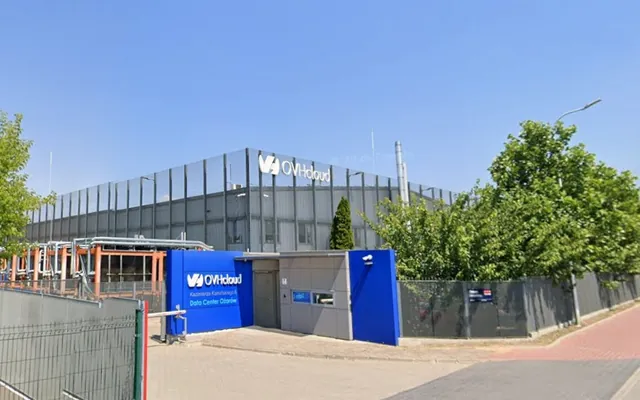
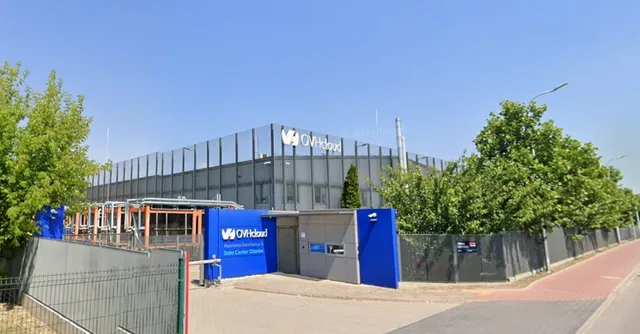
Ozarow w natywnej rozdzielczosci, na telefonie w ramce

diff --git a/realizacje.html b/realizacje.html
@@ -46,7 +46,7 @@
 <h1>Wybrane projekty</h1><p>Pełna lista realizacji do wglądu na życzenie wraz z listami referencyjnymi.</p>
 </div><div class="ph-ch" aria-hidden="true"></div></section>
 <section class="sek"><div class="wrap">
-<div class="kafle"><article class="kafel"><div class="k-foto"><img src="img/hybryda-960.webp" srcset="img/hybryda-640.webp 640w, img/hybryda-960.webp 960w, img/hybryda-1280.webp 1280w" sizes="(min-width:1100px) 580px, (min-width:760px) 46vw, 100vw" width="1280" height="800" alt="Turbina wiatrowa i farma fotowoltaiczna projektu hybrydowego OZE" loading="lazy" decoding="async"></div><div class="k-tekst"><p class="rola">PMaaS</p><h3>Projekt hybrydowy OZE</h3><p class="miejsce">Polska centralna</p><p>Farma wiatrowa 2 MW, instalacja PV 1 MW, magazyn energii 2 MW.</p></div></article><article class="kafel"><div class="k-foto"><img src="img/pv-960.webp" srcset="img/pv-640.webp 640w, img/pv-960.webp 960w, img/pv-1120.webp 1120w" sizes="(min-width:1100px) 580px, (min-width:760px) 46vw, 100vw" width="1120" height="700" alt="Sklep sieci handlowej z instalacją fotowoltaiczną na dachu" loading="lazy" decoding="async"></div><div class="k-tekst"><p class="rola">Zarządzanie projektem</p><h3>Ponad 2400 instalacji PV dla największej sieci sklepów w Polsce</h3><p class="miejsce">Lokalizacje w całej Polsce</p><p>Prawie 120 MW. Jeden z największych projektów w Europie.</p></div></article><article class="kafel"><div class="k-foto gal"><div class="slajdy"><img src="img/obudowa-960.webp" srcset="img/obudowa-640.webp 640w, img/obudowa-960.webp 960w, img/obudowa-1200.webp 1200w" sizes="(min-width:1100px) 580px, (min-width:760px) 46vw, 100vw" width="1200" height="750" alt="Obudowa układu kogeneracyjnego z kominem i podestami" loading="lazy" decoding="async"><img src="img/agregat-910.webp" srcset="img/agregat-640.webp 640w, img/agregat-910.webp 910w" sizes="(min-width:1100px) 580px, (min-width:760px) 46vw, 100vw" width="910" height="569" alt="Agregat układu kogeneracyjnego wewnątrz obudowy" loading="lazy" decoding="async"></div><button class="p" type="button" aria-label="Poprzednie zdjęcie"><svg viewBox="0 0 24 24" aria-hidden="true"><path d="M15 5l-7 7 7 7"/></svg></button><button class="n" type="button" aria-label="Następne zdjęcie"><svg viewBox="0 0 24 24" aria-hidden="true"><path d="M9 5l7 7-7 7"/></svg></button><span class="licz"></span></div><div class="k-tekst"><p class="rola">Projekt, prefabrykacja, dostawa i montaż</p><h3>Projekt kogeneracyjny</h3><p class="miejsce">Rybnik</p><p>Projektowanie, prefabrykacja, dostawa i montaż konstrukcji stalowych oraz obudów układów kogeneracyjnych o łącznej mocy ponad 5 MW.</p></div></article><article class="kafel"><div class="k-foto"><img src="img/tuna-960.webp" srcset="img/tuna-640.webp 640w, img/tuna-960.webp 960w, img/tuna-1280.webp 1280w" sizes="(min-width:1100px) 580px, (min-width:760px) 46vw, 100vw" width="1280" height="800" alt="Konstrukcja stalowa centrum danych w Sandviken w trakcie budowy" loading="lazy" decoding="async"></div><div class="k-tekst"><p class="rola">PMaaS</p><h3>TUNA Project: Data Center dla Microsoft</h3><p class="miejsce">Sandviken, Szwecja</p><p>Wsparcie w modelu Project Management as a Service.</p></div></article><article class="kafel"><div class="k-foto"><img src="img/terminal-960.webp" srcset="img/terminal-640.webp 640w, img/terminal-960.webp 960w, img/terminal-1248.webp 1248w" sizes="(min-width:1100px) 580px, (min-width:760px) 46vw, 100vw" width="1248" height="780" alt="Budynek Cargo Terminal na Lotnisku Chopina z parkingiem" loading="lazy" decoding="async"></div><div class="k-tekst"><p class="rola">Generalne wykonawstwo (konsorcjum)</p><h3>Modernizacja dachu Cargo Terminal</h3><p class="miejsce">Lotnisko Chopina, Warszawa</p><p>Realizacja w konsorcjum, generalne wykonawstwo.</p></div></article><article class="kafel"><div class="k-foto"><img src="img/ozarow-858.webp" srcset="img/ozarow-640.webp 640w, img/ozarow-858.webp 858w" sizes="(min-width:1100px) 580px, (min-width:760px) 46vw, 100vw" width="858" height="536" alt="Budynek centrum danych OVHcloud w Ożarowie Mazowieckim od strony ulicy" loading="lazy" decoding="async"></div><div class="k-tekst"><p class="rola">Generalny wykonawca</p><h3>OVHcloud: Data Center Ożarów</h3><p class="miejsce">Ożarów Mazowiecki</p><p>Prace budowlane i elektryczne, BEST PM jako generalny wykonawca.</p></div></article><article class="kafel bez-foto"><div class="k-bez" aria-hidden="true"><span>07</span><svg class="ch" viewBox="0 0 44 32" aria-hidden="true"><path d="M5 3l13 13L5 29" stroke="#fff"/><path d="M21 3l13 13-13 13" stroke="#188BE8"/></svg></div><div class="k-tekst"><p class="rola">Generalne wykonawstwo (konsorcjum)</p><h3>Przebudowa powierzchni biurowo-magazynowej w Cargo Terminal</h3><p class="miejsce">Lotnisko Chopina, Warszawa</p><p>Realizacja w konsorcjum, generalne wykonawstwo.</p></div></article><article class="kafel bez-foto"><div class="k-bez" aria-hidden="true"><span>08</span><svg class="ch" viewBox="0 0 44 32" aria-hidden="true"><path d="M5 3l13 13L5 29" stroke="#fff"/><path d="M21 3l13 13-13 13" stroke="#188BE8"/></svg></div><div class="k-tekst"><p class="rola">Generalny wykonawca</p><h3>Modernizacja budynku biurowego</h3><p class="miejsce">Legionowo</p><p>Prace zewnętrzne, BEST PM jako generalny wykonawca.</p></div></article></div>
+<div class="kafle"><article class="kafel"><div class="k-foto"><img src="img/hybryda-960.webp" srcset="img/hybryda-640.webp 640w, img/hybryda-960.webp 960w, img/hybryda-1280.webp 1280w" sizes="(min-width:1100px) 580px, (min-width:760px) 46vw, 100vw" width="1280" height="800" alt="Turbina wiatrowa i farma fotowoltaiczna projektu hybrydowego OZE" loading="lazy" decoding="async"></div><div class="k-tekst"><p class="rola">PMaaS</p><h3>Projekt hybrydowy OZE</h3><p class="miejsce">Polska centralna</p><p>Farma wiatrowa 2 MW, instalacja PV 1 MW, magazyn energii 2 MW.</p></div></article><article class="kafel"><div class="k-foto"><img src="img/pv-960.webp" srcset="img/pv-640.webp 640w, img/pv-960.webp 960w, img/pv-1120.webp 1120w" sizes="(min-width:1100px) 580px, (min-width:760px) 46vw, 100vw" width="1120" height="700" alt="Sklep sieci handlowej z instalacją fotowoltaiczną na dachu" loading="lazy" decoding="async"></div><div class="k-tekst"><p class="rola">Zarządzanie projektem</p><h3>Ponad 2400 instalacji PV dla największej sieci sklepów w Polsce</h3><p class="miejsce">Lokalizacje w całej Polsce</p><p>Prawie 120 MW. Jeden z największych projektów w Europie.</p></div></article><article class="kafel"><div class="k-foto gal"><div class="slajdy"><img src="img/obudowa-960.webp" srcset="img/obudowa-640.webp 640w, img/obudowa-960.webp 960w, img/obudowa-1200.webp 1200w" sizes="(min-width:1100px) 580px, (min-width:760px) 46vw, 100vw" width="1200" height="750" alt="Obudowa układu kogeneracyjnego z kominem i podestami" loading="lazy" decoding="async"><img src="img/agregat-910.webp" srcset="img/agregat-640.webp 640w, img/agregat-910.webp 910w" sizes="(min-width:1100px) 580px, (min-width:760px) 46vw, 100vw" width="910" height="569" alt="Agregat układu kogeneracyjnego wewnątrz obudowy" loading="lazy" decoding="async"></div><button class="p" type="button" aria-label="Poprzednie zdjęcie"><svg viewBox="0 0 24 24" aria-hidden="true"><path d="M15 5l-7 7 7 7"/></svg></button><button class="n" type="button" aria-label="Następne zdjęcie"><svg viewBox="0 0 24 24" aria-hidden="true"><path d="M9 5l7 7-7 7"/></svg></button><span class="licz"></span></div><div class="k-tekst"><p class="rola">Projekt, prefabrykacja, dostawa i montaż</p><h3>Projekt kogeneracyjny</h3><p class="miejsce">Rybnik</p><p>Projektowanie, prefabrykacja, dostawa i montaż konstrukcji stalowych oraz obudów układów kogeneracyjnych o łącznej mocy ponad 5 MW.</p></div></article><article class="kafel"><div class="k-foto"><img src="img/tuna-960.webp" srcset="img/tuna-640.webp 640w, img/tuna-960.webp 960w, img/tuna-1280.webp 1280w" sizes="(min-width:1100px) 580px, (min-width:760px) 46vw, 100vw" width="1280" height="800" alt="Konstrukcja stalowa centrum danych w Sandviken w trakcie budowy" loading="lazy" decoding="async"></div><div class="k-tekst"><p class="rola">PMaaS</p><h3>TUNA Project: Data Center dla Microsoft</h3><p class="miejsce">Sandviken, Szwecja</p><p>Wsparcie w modelu Project Management as a Service.</p></div></article><article class="kafel"><div class="k-foto"><img src="img/terminal-960.webp" srcset="img/terminal-640.webp 640w, img/terminal-960.webp 960w, img/terminal-1248.webp 1248w" sizes="(min-width:1100px) 580px, (min-width:760px) 46vw, 100vw" width="1248" height="780" alt="Budynek Cargo Terminal na Lotnisku Chopina z parkingiem" loading="lazy" decoding="async"></div><div class="k-tekst"><p class="rola">Generalne wykonawstwo (konsorcjum)</p><h3>Modernizacja dachu Cargo Terminal</h3><p class="miejsce">Lotnisko Chopina, Warszawa</p><p>Realizacja w konsorcjum, generalne wykonawstwo.</p></div></article><article class="kafel"><div class="k-foto zaw"><img src="img/ozarow-1027.webp" srcset="img/ozarow-640.webp 640w, img/ozarow-1027.webp 1027w" sizes="(min-width:1100px) 580px, (min-width:760px) 46vw, 100vw" width="1027" height="536" alt="Budynek centrum danych OVHcloud w Ożarowie Mazowieckim od strony ulicy" loading="lazy" decoding="async"></div><div class="k-tekst"><p class="rola">Generalny wykonawca</p><h3>OVHcloud: Data Center Ożarów</h3><p class="miejsce">Ożarów Mazowiecki</p><p>Prace budowlane i elektryczne, BEST PM jako generalny wykonawca.</p></div></article><article class="kafel bez-foto"><div class="k-bez" aria-hidden="true"><span>07</span><svg class="ch" viewBox="0 0 44 32" aria-hidden="true"><path d="M5 3l13 13L5 29" stroke="#fff"/><path d="M21 3l13 13-13 13" stroke="#188BE8"/></svg></div><div class="k-tekst"><p class="rola">Generalne wykonawstwo (konsorcjum)</p><h3>Przebudowa powierzchni biurowo-magazynowej w Cargo Terminal</h3><p class="miejsce">Lotnisko Chopina, Warszawa</p><p>Realizacja w konsorcjum, generalne wykonawstwo.</p></div></article><article class="kafel bez-foto"><div class="k-bez" aria-hidden="true"><span>08</span><svg class="ch" viewBox="0 0 44 32" aria-hidden="true"><path d="M5 3l13 13L5 29" stroke="#fff"/><path d="M21 3l13 13-13 13" stroke="#188BE8"/></svg></div><div class="k-tekst"><p class="rola">Generalny wykonawca</p><h3>Modernizacja budynku biurowego</h3><p class="miejsce">Legionowo</p><p>Prace zewnętrzne, BEST PM jako generalny wykonawca.</p></div></article></div>
 <div class="na-zyczenie"><p><b>Pełna lista realizacji</b> do wglądu na życzenie, wraz z listami referencyjnymi.</p><a class="btn" href="kontakt.html#zapytanie">Poproś o listę <svg class="arr" viewBox="0 0 24 24" aria-hidden="true"><path d="M5 5l7 7-7 7M12 5l7 7-7 7"/></svg></a></div>
 </div></section>
 <section class="sek szara"><div class="wrap">

diff --git a/index.html b/index.html
@@ -79,7 +79,7 @@
 </div></div></section>
 <section class="sek"><div class="wrap">
 <div class="wstep wstep-rz"><p class="znak"><svg class="ch" viewBox="0 0 44 32" aria-hidden="true"><path d="M5 3l13 13L5 29" stroke="#0C2B46"/><path d="M21 3l13 13-13 13" stroke="#188BE8"/></svg><span>Realizacje</span></p><h2>Wybrane projekty</h2><a class="btn obrys" href="realizacje.html">Wszystkie realizacje <svg class="arr" viewBox="0 0 24 24" aria-hidden="true"><path d="M5 5l7 7-7 7M12 5l7 7-7 7"/></svg></a></div>
-<div class="kafle trzy"><article class="kafel"><div class="k-foto"><img src="img/hybryda-960.webp" srcset="img/hybryda-640.webp 640w, img/hybryda-960.webp 960w, img/hybryda-1280.webp 1280w" sizes="(min-width:1100px) 390px, (min-width:760px) 31vw, 100vw" width="1280" height="800" alt="Turbina wiatrowa i farma fotowoltaiczna projektu hybrydowego OZE" loading="lazy" decoding="async"></div><div class="k-tekst"><p class="rola">PMaaS</p><h3>Projekt hybrydowy OZE</h3><p class="miejsce">Polska centralna</p><p>Farma wiatrowa 2 MW, instalacja PV 1 MW, magazyn energii 2 MW.</p></div></article><article class="kafel"><div class="k-foto"><img src="img/tuna-960.webp" srcset="img/tuna-640.webp 640w, img/tuna-960.webp 960w, img/tuna-1280.webp 1280w" sizes="(min-width:1100px) 390px, (min-width:760px) 31vw, 100vw" width="1280" height="800" alt="Konstrukcja stalowa centrum danych w Sandviken w trakcie budowy" loading="lazy" decoding="async"></div><div class="k-tekst"><p class="rola">PMaaS</p><h3>TUNA Project: Data Center dla Microsoft</h3><p class="miejsce">Sandviken, Szwecja</p><p>Wsparcie w modelu Project Management as a Service.</p></div></article><article class="kafel"><div class="k-foto"><img src="img/ozarow-858.webp" srcset="img/ozarow-640.webp 640w, img/ozarow-858.webp 858w" sizes="(min-width:1100px) 390px, (min-width:760px) 31vw, 100vw" width="858" height="536" alt="Budynek centrum danych OVHcloud w Ożarowie Mazowieckim od strony ulicy" loading="lazy" decoding="async"></div><div class="k-tekst"><p class="rola">Generalny wykonawca</p><h3>OVHcloud: Data Center Ożarów</h3><p class="miejsce">Ożarów Mazowiecki</p><p>Prace budowlane i elektryczne, BEST PM jako generalny wykonawca.</p></div></article></div>
+<div class="kafle trzy"><article class="kafel"><div class="k-foto"><img src="img/hybryda-960.webp" srcset="img/hybryda-640.webp 640w, img/hybryda-960.webp 960w, img/hybryda-1280.webp 1280w" sizes="(min-width:1100px) 390px, (min-width:760px) 31vw, 100vw" width="1280" height="800" alt="Turbina wiatrowa i farma fotowoltaiczna projektu hybrydowego OZE" loading="lazy" decoding="async"></div><div class="k-tekst"><p class="rola">PMaaS</p><h3>Projekt hybrydowy OZE</h3><p class="miejsce">Polska centralna</p><p>Farma wiatrowa 2 MW, instalacja PV 1 MW, magazyn energii 2 MW.</p></div></article><article class="kafel"><div class="k-foto"><img src="img/tuna-960.webp" srcset="img/tuna-640.webp 640w, img/tuna-960.webp 960w, img/tuna-1280.webp 1280w" sizes="(min-width:1100px) 390px, (min-width:760px) 31vw, 100vw" width="1280" height="800" alt="Konstrukcja stalowa centrum danych w Sandviken w trakcie budowy" loading="lazy" decoding="async"></div><div class="k-tekst"><p class="rola">PMaaS</p><h3>TUNA Project: Data Center dla Microsoft</h3><p class="miejsce">Sandviken, Szwecja</p><p>Wsparcie w modelu Project Management as a Service.</p></div></article><article class="kafel"><div class="k-foto zaw"><img src="img/ozarow-1027.webp" srcset="img/ozarow-640.webp 640w, img/ozarow-1027.webp 1027w" sizes="(min-width:1100px) 390px, (min-width:760px) 31vw, 100vw" width="1027" height="536" alt="Budynek centrum danych OVHcloud w Ożarowie Mazowieckim od strony ulicy" loading="lazy" decoding="async"></div><div class="k-tekst"><p class="rola">Generalny wykonawca</p><h3>OVHcloud: Data Center Ożarów</h3><p class="miejsce">Ożarów Mazowiecki</p><p>Prace budowlane i elektryczne, BEST PM jako generalny wykonawca.</p></div></article></div>
 </div></section>
 <section class="sek cel"><div class="wrap cel-siatka">
 <p class="cytat">Naszym celem jest zapewnienie klientom odpowiedniego doświadczenia, zespołu i kompetencji, które pozwalają skutecznie prowadzić projekty i osiągać założone cele inwestycyjne.</p>

diff --git a/style.css b/style.css
@@ -281,5 +281,7 @@ body{font-size:16.5px}
 .zgody{left:10px;right:10px;bottom:10px;max-width:none}
 .na-zyczenie{padding:24px 20px}
 .k-tekst{padding:22px 20px 24px}
+.k-foto.zaw{background:var(--navy)}
+.k-foto.zaw img{object-fit:contain}
 }
 @media (prefers-reduced-motion:reduce){*{transition:none!important;scroll-behavior:auto!important}}
